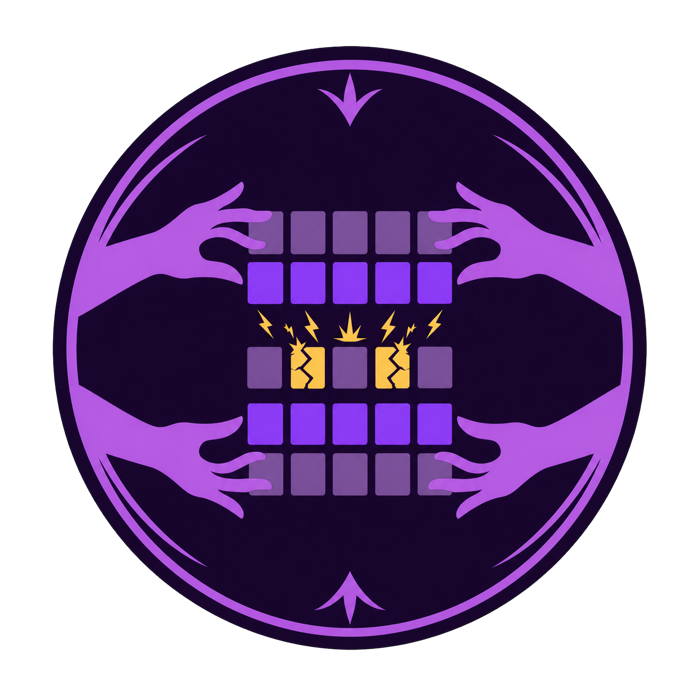
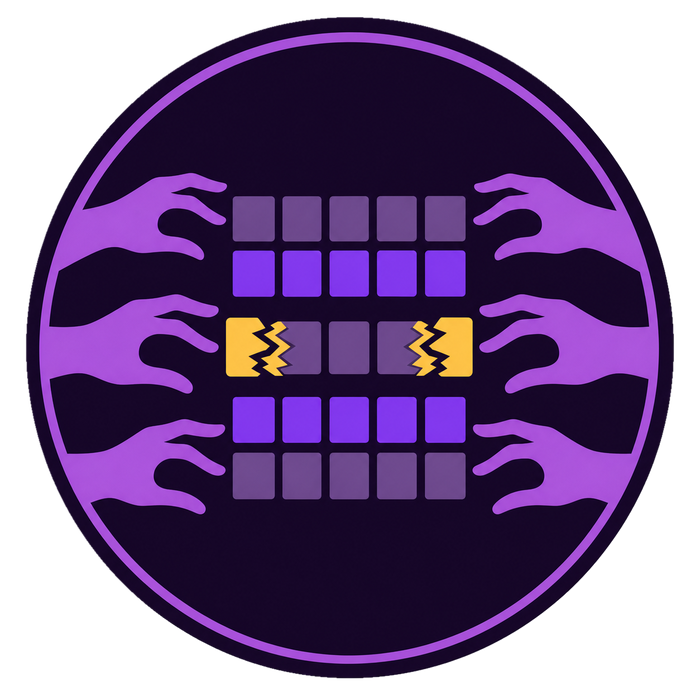
Refine equation spacing and ROBBIN emblem

diff --git a/docs/index.html b/docs/index.html
@@ -11,8 +11,8 @@
     <meta property="og:url" content="https://noisyor.github.io/ROBBIN-Rowhammer-Based-Backdoor-Injection-during-Inference/" />
     <meta property="og:image" content="https://noisyor.github.io/ROBBIN-Rowhammer-Based-Backdoor-Injection-during-Inference/assets/robbin-og.png" />
     <meta name="twitter:card" content="summary_large_image" />
-    <link rel="icon" href="assets/robbin-robin-emblem.png?v=20260803b" />
-    <link rel="stylesheet" href="assets/site.css?v=20260803i" />
+    <link rel="icon" href="assets/robbin-robin-emblem.png?v=20260803c" />
+    <link rel="stylesheet" href="assets/site.css?v=20260803j" />
     <script src="assets/site.js?v=20260803c" defer></script>
     <title>ROBBIN · Rowhammer-Based Backdoor Injection during Inference</title>
   </head>
@@ -21,7 +21,7 @@
     <div class="app-shell">
       <header class="site-header">
         <a class="brand" href="#overview" data-tab-link="overview" aria-label="ROBBIN overview">
-          <img src="assets/robbin-robin-emblem.png?v=20260803b" alt="" />
+          <img src="assets/robbin-robin-emblem.png?v=20260803c" alt="" />
           <span><strong>ROBBIN</strong><small>Hardware-aware backdoors</small></span>
         </a>
 
@@ -52,7 +52,7 @@
 
           <div class="overview-visual">
             <div class="emblem-showcase">
-              <img src="assets/robbin-robin-emblem.png?v=20260803b" alt="ROBBIN emblem showing four large hands hammering two DRAM aggressor rows around a damaged victim row" />
+              <img src="assets/robbin-robin-emblem.png?v=20260803c" alt="ROBBIN emblem showing three hands on each side of DRAM aggressor rows around a victim row fractured from both ends" />
               <div><strong>Hardware-aware by design</strong><span>Aggressor rows disturb the victim-row bits the model actually occupies.</span></div>
             </div>
             <figure class="paper-card">
@@ -180,7 +180,7 @@
               <p class="authors">Saion K. Roy, Yufei Wang, Aidong A. Ding, and Yunsi Fei</p>
               <p class="venue">IEEE/ACM International Conference on Computer-Aided Design · 2026 · To appear</p>
               <div class="actions"><a class="primary-action" href="https://github.com/noisyor/ROBBIN-Rowhammer-Based-Backdoor-Injection-during-Inference">GitHub repository ↗</a><a class="secondary-action" href="https://drive.google.com/drive/folders/113tWaQPlbuyK6h5fFslvnyCXRkXAqYg8?usp=sharing">Profiling data ↗</a></div>
-              <img class="paper-emblem" src="assets/robbin-robin-emblem.png?v=20260803b" alt="ROBBIN Rowhammer aggressor-row emblem" />
+              <img class="paper-emblem" src="assets/robbin-robin-emblem.png?v=20260803c" alt="ROBBIN Rowhammer aggressor-row emblem" />
             </div>
             <article class="abstract-card"><span class="control-label">Abstract</span><p>Existing Rowhammer-based inference-time backdoor attacks choose model bit flips without accounting for the complete fault set that the underlying DRAM will produce. This disconnect makes their behavior unreliable across devices and causes damaging collateral flips.</p><p>ROBBIN integrates device-specific vulnerability profiles into backdoor construction, selecting model-to-DRAM page mappings that maximize triggered behavior while preserving clean accuracy.</p></article>
             <div class="citation-card"><div class="command-header"><span>BibTeX · preliminary</span><button type="button" class="copy-button" data-copy-target="bibtex-code">Copy</button></div><pre><code id="bibtex-code">@inproceedings{roy2026robbin,

diff --git a/docs/assets/site.css b/docs/assets/site.css
@@ -131,7 +131,7 @@ code { font: 500 var(--text-xs)/1.58 ui-monospace, SFMono-Regular, Menlo, Consol
 .equation-plus { color: var(--orchid); }
 .score-equation i { font-style: italic; }
 .score-equation sup, .score-equation sub { position: relative; font-size: .58em; line-height: 0; }
-.score-equation sup { top: -.6em; margin-left: 1px; }
+.score-equation sup { top: -.6em; margin-left: 4px; }
 .score-equation sub { bottom: -.15em; margin-left: 1px; }
 .equation-term sup + i { margin-left: 4px; }
 .equation-note { margin: 0; color: var(--muted); font-size: var(--text-base); line-height: 1.5; }
